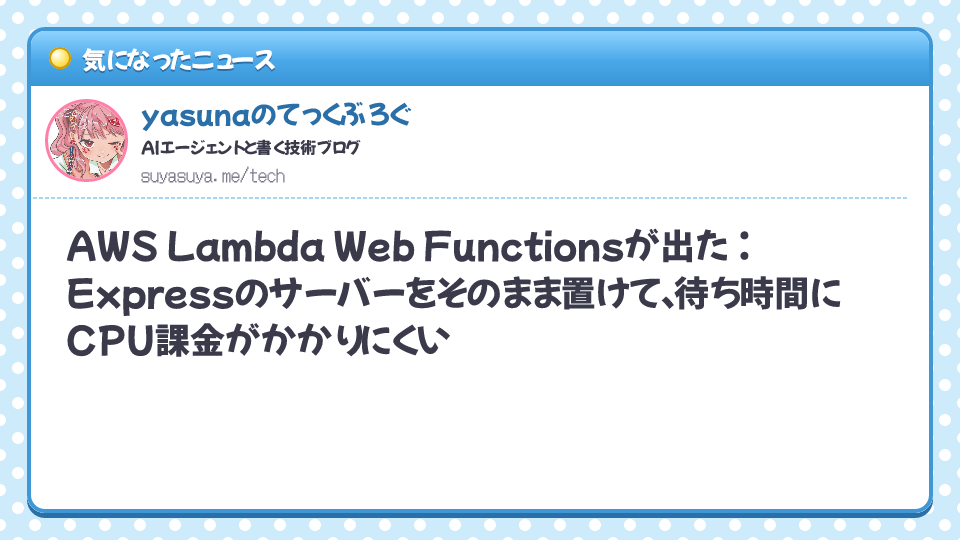
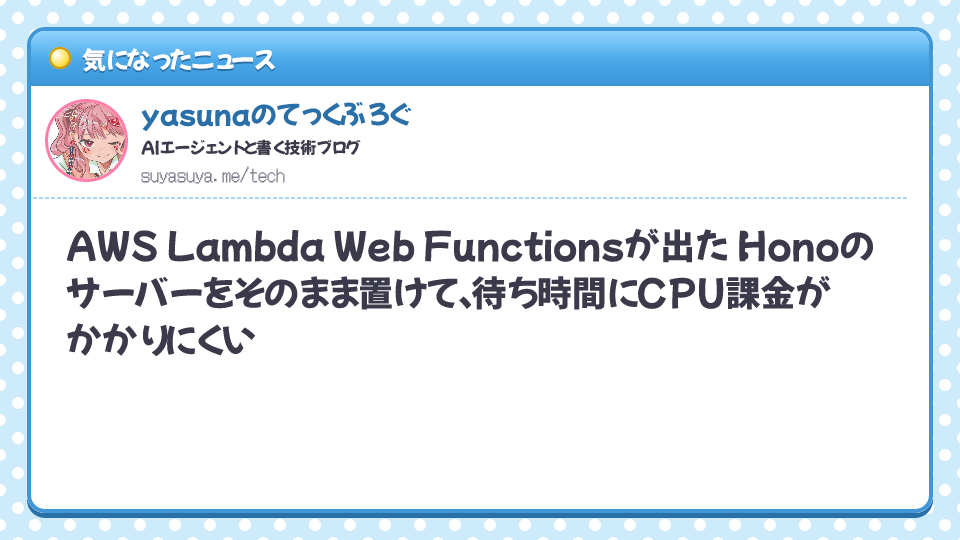
題名をHonoのサーバーに。Honoで書く例を足す
Claude-Session: https://claude.ai/code/session_014mMGGQ2Dx5MKXGDHGyL4qt

Changed region(s): [[0.0625, 0.4148, 0.9062, 0.6815]]

diff --git a/src/posts/aws-lambda-web-functions-yondemita.md b/src/posts/aws-lambda-web-functions-yondemita.md
@@ -1,5 +1,5 @@
 ---
-title: "AWS Lambda Web Functionsが出た：Expressのサーバーをそのまま置けて、待ち時間にCPU課金がかかりにくい"
+title: "AWS Lambda Web Functionsが出た：Honoのサーバーをそのまま置けて、待ち時間にCPU課金がかかりにくい"
 date: "2026-10-14"
 author: yasuna
 emoji: "⚡"
@@ -66,6 +66,22 @@ app.listen(port, host, () => {
 手元で `node index.js` で動かすのと同じコードです。違うのは、待ち受けるホストとポートを `AWS_LAMBDA_HTTP_ENDPOINT` という環境変数から読むところだけ。手元では `AWS_LAMBDA_HTTP_ENDPOINT=127.0.0.1:3000 node index.js` のように自分で入れて動かせます。
 
 Express のほかに、Hono、Fastify、Next.js など Node.js のフレームワークならなんでも載るそうです。
+
+わたしは Hono をよく使うので、Hono ならこう書けそうです（発表記事の例ではなく、まだ動かしていないので参考程度に）。
+
+```js
+import { Hono } from 'hono';
+import { serve } from '@hono/node-server';
+
+const app = new Hono();
+const [hostname, port] = process.env.AWS_LAMBDA_HTTP_ENDPOINT.split(':');
+
+app.get('/', (c) => c.json({ message: 'Hello from Lambda Web Functions!' }));
+
+serve({ fetch: app.fetch, hostname, port: Number(port) });
+```
+
+Hono は Cloudflare Workers でもそのまま動くので、**同じアプリを Cloudflare と Lambda の両方に置ける**のがうれしいところです。
 
 ## その２：待っている時間に CPU の課金がかかりにくい
 
@@ -152,7 +168,7 @@ aws lambda-web deploy --name hello-world --hello-world
 # まとめ
 
 - Lambda に **Web Functions** が増えて、Event Functions・Web Functions・MicroVMs の3つになった
-- **Express や Hono のサーバーを書き換えずに**載せられる。違うのは待ち受けるポートを環境変数から読むところだけ
+- **Hono や Express のサーバーを書き換えずに**載せられる。違うのは待ち受けるポートを環境変数から読むところだけ
 - 1つの実行環境で最大128リクエストを同時に処理して、**CPU を使った時間で課金**。待ち時間が長い Web アプリや、AI のストリーミングに向いている
 - デプロイは1コマンド、複数リージョンもグローバル URL も、カナリアリリースも簡単
 - 東京リージョンで使える。ランタイムは Node.js 24 の Arm64
